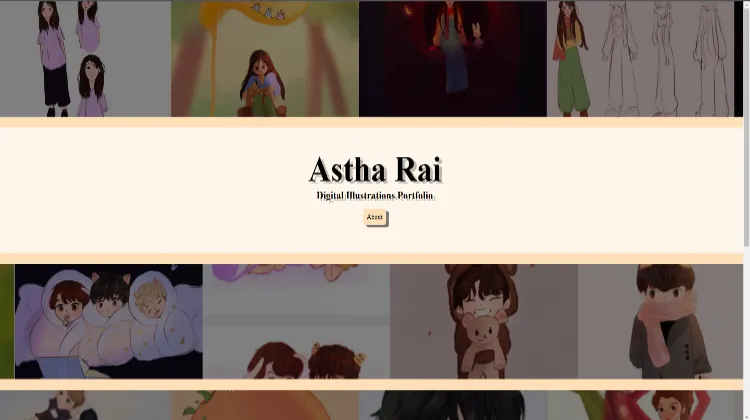
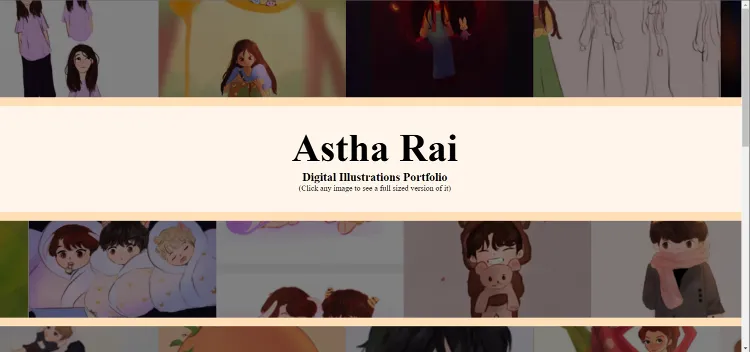
adding Astha Rai

diff --git a/assets/resources/previewDB.js b/assets/resources/previewDB.js
@@ -40,18 +40,14 @@ export const previewDB = {
   },
   "project04": {
     "id" : "04",
-    // "name": "Astha Rai",
-    "name": "Empty Slot",
-    // "thumbnailPath": "assets/resources/imgs/PreviewPics/AsthaRai/AR_thmb.webp",
-    "thumbnailPath": "assets/resources/imgs/placeHolder2.png",
+    "name": "Astha Rai",
+    "thumbnailPath": "assets/resources/imgs/PreviewPics/AsthaRai/AR_thmb.webp",
     "color":"lime",
     "preview" : {
-      // "previewPath": "pages/preview.html?id=04",
-      "previewPath": "pages/deadEnd.html",
+      "previewPath": "pages/preview.html?id=04",
       "sitePath":"https://erikqb3.github.io/ProjectWorkBench/Astha_Rai/index.html",
       "year":2022,
-      "carouselImgs" :["assets/resources/imgs/PreviewPics/AsthaRai/AR1.webp"],
-      // "description" : "This website was created with permission from hobbyist creative writer and friend: Jeremy Cole. He shared with me a few examples of his work when we lived in the same apartment at the start of our college experiences several years ago and I thoroughly enjoyed reading them all! <br><br> Loving his writing style and stories so much, I asked and obtained permission to create a portoflio website displaying his works. Many of the stories displayed on the website are original works of his own along with a few selected works of fan-art; all of them worthy of reading. <br><br> This website was constructed using Boot Strap software. It is still in development due to lack of textual content and cover images,  but additions and improvements will be made in the future."
+      "carouselImgs" :["assets/resources/imgs/PreviewPics/AsthaRai/AR1.webp","assets/resources/imgs/PreviewPics/AsthaRai/AR2.webp"],
       "description" : "I connected with Astha Rai at the start of the year. After obtaining permission from Astha to use her content, I constructed this website free of charge for the sole purpose of further developing my coding skills and style. <br>A bit of trial and error was had due to the privleage of free-range creativity, but in the end I was able to produce a website suitable to display Astha's magnificent works!"
     }
   },
@@ -113,7 +109,7 @@ export const previewDB = {
     "thumbnailPath": "assets/resources/imgs/placeHolder2.png",
     "color":"white",
     "preview" : {
-      "previewPath": "pages/deadEnd.html",
+      "previewPath": "pages/about.html",
       "sitePath":"pages/deadEnd.html",
       "year":2022,
       "carouselImgs" :["assets/resources/imgs/placeholder.jpg","assets/resources/imgs/placeholder.jpg","assets/resources/imgs/placeholder.jpg","assets/resources/imgs/placeholder.jpg","assets/resources/imgs/placeholder.jpg"],

diff --git a/assets/scss/landing.css b/assets/scss/landing.css
@@ -5,10 +5,12 @@
   main #hero {
     position: relative;
     z-index: 0;
-    height: 60vh;
+    height: -moz-fit-content;
+    height: fit-content;
   }
   main #hero figure {
-    height: 100%;
+    height: -moz-fit-content;
+    height: fit-content;
     width: 100%;
     overflow: hidden;
     display: flex;
@@ -21,6 +23,17 @@
     width: 100%;
     bottom: 0vh;
     z-index: 0;
+  }
+  main #hero #banner {
+    height: 30%;
+    background-color: rgba(0, 0, 0, 0.6);
+    color: white;
+    display: flex;
+    align-items: center;
+    justify-content: center;
+    text-align: center;
+    font-size: 1.5rem;
+    line-height: 2.5rem;
   }
   main h1 {
     font-family: Verdana, Geneva, Tahoma, sans-serif;
@@ -107,9 +120,6 @@
   }
 }
 @media only all and (min-width: 760px) {
-  main #hero {
-    height: 75vh;
-  }
   main #hero figure {
     align-items: flex-start;
   }
@@ -178,5 +188,13 @@
   }
   main #gallery a:nth-child(4n+4) {
     grid-column: 4;
+  }
+}
+@media only all and (min-width: 1200px) {
+  main #hero {
+    height: 75vh;
+  }
+  main #hero figure {
+    height: 100%;
   }
 }/*# sourceMappingURL=landing.css.map */

diff --git a/assets/js/landing.js b/assets/js/landing.js
@@ -28,7 +28,7 @@ const pageStuff = {
     hero_tag = helperFunctions.generateElement('div',"hero"),
     figure_tag = helperFunctions.generateElement('figure'),
     img_tag = helperFunctions.generateElement('img',"","","","assets/resources/imgs/background.webp"),
-    banner_tag = helperFunctions.generateElement('div', "banner")
+    banner_tag = helperFunctions.generateElement('div', "banner","","I live in a world that balances between the intracate power of science and the inspiring wonder of art!<br>I am a web designer!")
   ){
     figure_tag.appendChild(img_tag);
     hero_tag = helperFunctions.appendChildren(hero_tag, figure_tag, banner_tag)

diff --git a/assets/scss/landing.scss b/assets/scss/landing.scss
@@ -7,6 +7,19 @@ $desktopBannerImg: url("");
   main{
     z-index: 1;
     @include mobileHero;
+    #hero{
+      #banner{
+        height: 30%;
+        background-color: rgba(0,0,0,0.6);
+        color:white;
+        display:flex;
+        align-items:center;
+        justify-content: center;
+        text-align:center;
+        font-size: 1.5rem;
+        line-height: 2.5rem;
+      }
+    }
     h1{
       font-family:Verdana, Geneva, Tahoma, sans-serif;
       font-weight: lighter;
@@ -207,4 +220,7 @@ $desktopBannerImg: url("");
   }
 }
 @media only all and (min-width: 1200px) {
+  main{
+    @include maxHero;
+  }
 }

diff --git a/assets/js/navigation.js b/assets/js/navigation.js
@@ -35,7 +35,7 @@ export const navigation = {
   logo_molecule: function(
     div = helperFunctions.generateElement('div',"logoArea"),
     a_tag = helperFunctions.generateElement('a',"logoLink","","",`${this.pathAdjuster[0]}`),
-    img_tag = helperFunctions.generateElement('img',"","","logo",`${this.pathAdjuster[0]}assets/resources/imgs/logo_alt.png`)
+    img_tag = helperFunctions.generateElement('img',"","","logo",`${this.pathAdjuster[0]}assets/resources/imgs/logo.webp`)
   ){
     div = helperFunctions.appendChildren(div, a_tag, this.extraNav_molecule());
     a_tag.appendChild(img_tag);

diff --git a/assets/js/helperFunctions.js b/assets/js/helperFunctions.js
@@ -59,12 +59,16 @@ export const helperFunctions = {
         break;
       case 'button':
       case 'btn':
-        if (paramLink){
+        if (paramClass.includes('clipboard') && paramLink){
+          navigator.clipboard.writeText(paramLink);
+          console.log(paramLink);
+        }
+        else if (paramLink){
           element.addEventListener('click',()=>{
             console.log(window.location.href);
             window.location.replace(paramLink);
           })
-        };
+        }
         break;
       case 'input':
         element.setAttribute('type', paramClass);

diff --git a/assets/scss/contact.css b/assets/scss/contact.css
@@ -10,6 +10,7 @@
   }
   main #hero figure {
     height: 100%;
+    width: 100%;
     overflow: hidden;
     display: flex;
     align-items: center;
@@ -19,6 +20,7 @@
     position: absolute;
     height: 100%;
     width: 100%;
+    background-color: rgba(0, 0, 0, 0);
     bottom: 0vh;
     z-index: 0;
   }
@@ -72,11 +74,8 @@
   }
 }
 @media only all and (min-width: 992px) {
-  main #hero {
-    height: 75vh;
-  }
-  main #hero figure img {
-    width: 100%;
+  main #hero figure {
+    align-items: center;
   }
   main #hero {
     height: 80vh;

diff --git a/assets/scss/hero.scss b/assets/scss/hero.scss
@@ -3,9 +3,9 @@
     // background-color: black;
     position:relative;
     z-index: 0;
-    height: 60vh;
+    height: fit-content;
     figure{
-      height: 100%;
+      height: fit-content;
       width: 100%;
       overflow:hidden;
       display:flex;
@@ -32,7 +32,7 @@
 }
 @mixin minHero{
   #hero{
-    height: 75vh;
+    // height: 75vh;
     figure{
       align-items: flex-start;
       img{
@@ -59,7 +59,12 @@
   }
 }
 @mixin maxHero{
-
+  #hero{
+    height:75vh;
+    figure{
+      height: 100%;
+    }
+  }
 }
 
 

diff --git a/assets/scss/preview.css b/assets/scss/preview.css
@@ -49,8 +49,12 @@
   main #side1 #carousel_nav {
     display: flex;
     width: 50%;
-    justify-content: space-around;
+    justify-content: center;
     margin: 1rem auto;
+  }
+  main #side1 #carousel_nav div {
+    margin: 0 0.25rem;
+    cursor: pointer;
   }
   main #side1 #carousel_nav div.currentBtn {
     color: rgba(0, 0, 0, 0.5);

diff --git a/assets/scss/preview.scss b/assets/scss/preview.scss
@@ -53,9 +53,12 @@ main{
     #carousel_nav{
       display:flex;
       width: 50%;
-      justify-content: space-around;
+      justify-content: center;
       margin: 1rem auto;
-      div{}
+      div{
+        margin: 0 0.25rem;
+        cursor:pointer;
+      }
       div.currentBtn{
         color: rgba(0,0,0,0.5);
       }

diff --git a/assets/scss/about.css b/assets/scss/about.css
@@ -20,6 +20,7 @@
     position: absolute;
     height: 100%;
     width: 100%;
+    background-color: rgba(0, 0, 0, 0);
     bottom: 0vh;
     z-index: 0;
   }

diff --git a/assets/scss/deadEnd.css b/assets/scss/deadEnd.css
@@ -20,6 +20,7 @@
     position: absolute;
     height: 100%;
     width: 100%;
+    background-color: rgba(0, 0, 0, 0);
     bottom: 0vh;
     z-index: 0;
   }
